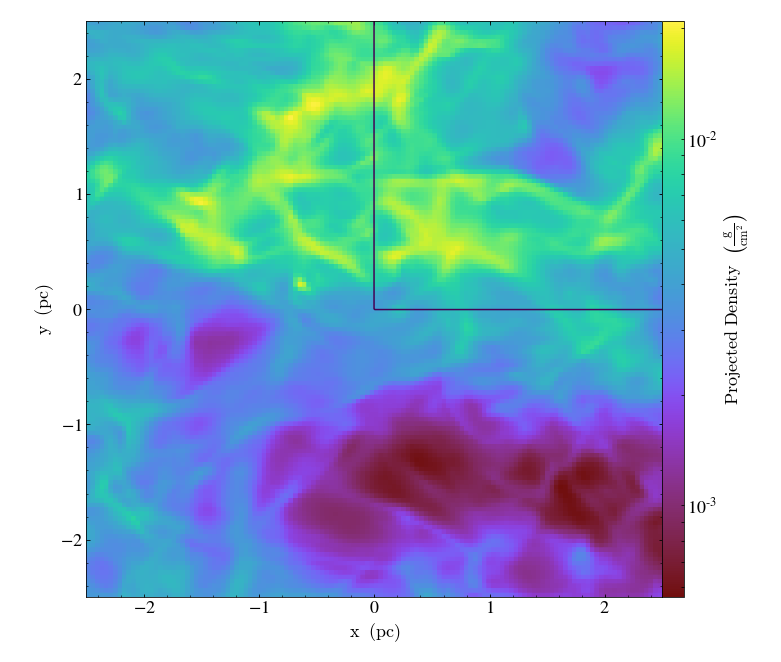
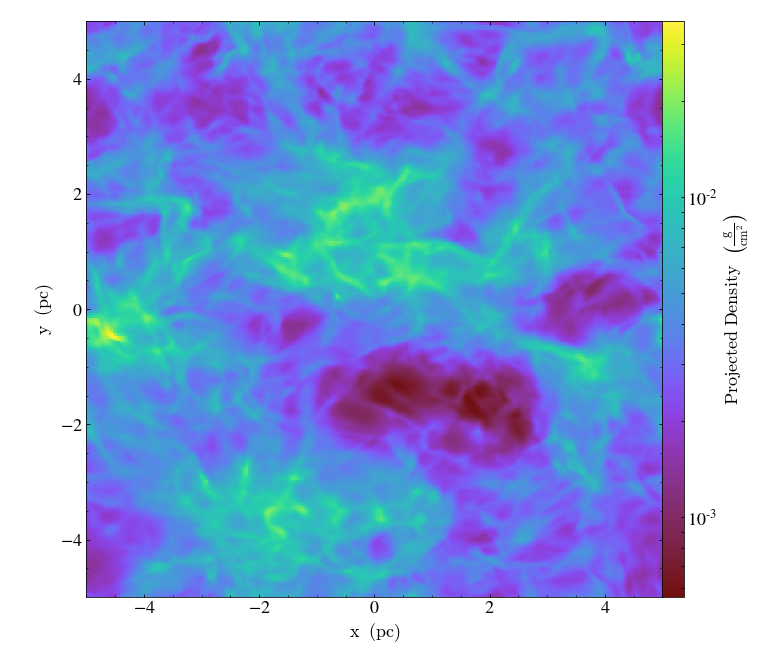
March 7 PM Updates

diff --git a/Assignment_5/0100/Clumping_yt_code_0100.py b/Assignment_5/0100/Clumping_yt_code_0100.py
@@ -16,19 +16,19 @@ from yt.units import Kelvin
 
 
 #Loading Data Set into Script
-ds = yt.load("~/bigdata/Fiducial00/data.0060.3d.hdf5")
+ds = yt.load("~/bigdata/Fiducial00/data.0100.3d.hdf5")
 
-for i in sorted(ds.derived_field_list):
-    print(i)
+
 
 #All Data Object for Clumping Variable
-dbox1 = ds.r[(0,'pc'):(5,'pc'), (0,'pc'):(5,'pc'), (0,'pc'):(5,'pc')]
+dbox1 = ds.r[(-5,'pc'):(0,'pc'), (-5,'pc'):(0,'pc'), (-5,'pc'):(0,'pc')]
 ad = ds.all_data()
 
+'''
 def _therm(field, data):
    return(1.5 * (kboltz) * 10 * Kelvin / (2.32 * mh))
 yt.add_field(("gas","thermal_energy"), function=_therm, units="erg/g", force_override=True)
-
+'''
 # the field to be used for contouring
 field = ("gas", "density")
 
@@ -38,7 +38,7 @@ step = 2.0
 # Now we set some sane min/max values between which we want to find contours.
 # This is how we tell the clump finder what to look for -- it won't look for
 # contours connected below or above these threshold values.
-c_min = 10**np.floor(np.log10(dbox1[field]).min()  )
+c_min = 10**np.floor(np.log10(dbox1[field]).mean()  )
 c_max = 10**np.floor(np.log10(dbox1[field]).max()+1)
 
 # Now find get our 'base' clump -- this one just covers the whole domain.
@@ -74,7 +74,7 @@ prj = yt.ProjectionPlot(ds, 2, field, center='c', width=(10,'pc'))
 prj.annotate_clumps(leaf_clumps)
 
 # Save the plot to disk.
-prj.save('clumps_yt_code_0060.png')
+prj.save('clumps_yt_code_0100.png')
 
 '''
 # Reload the clump dataset.
